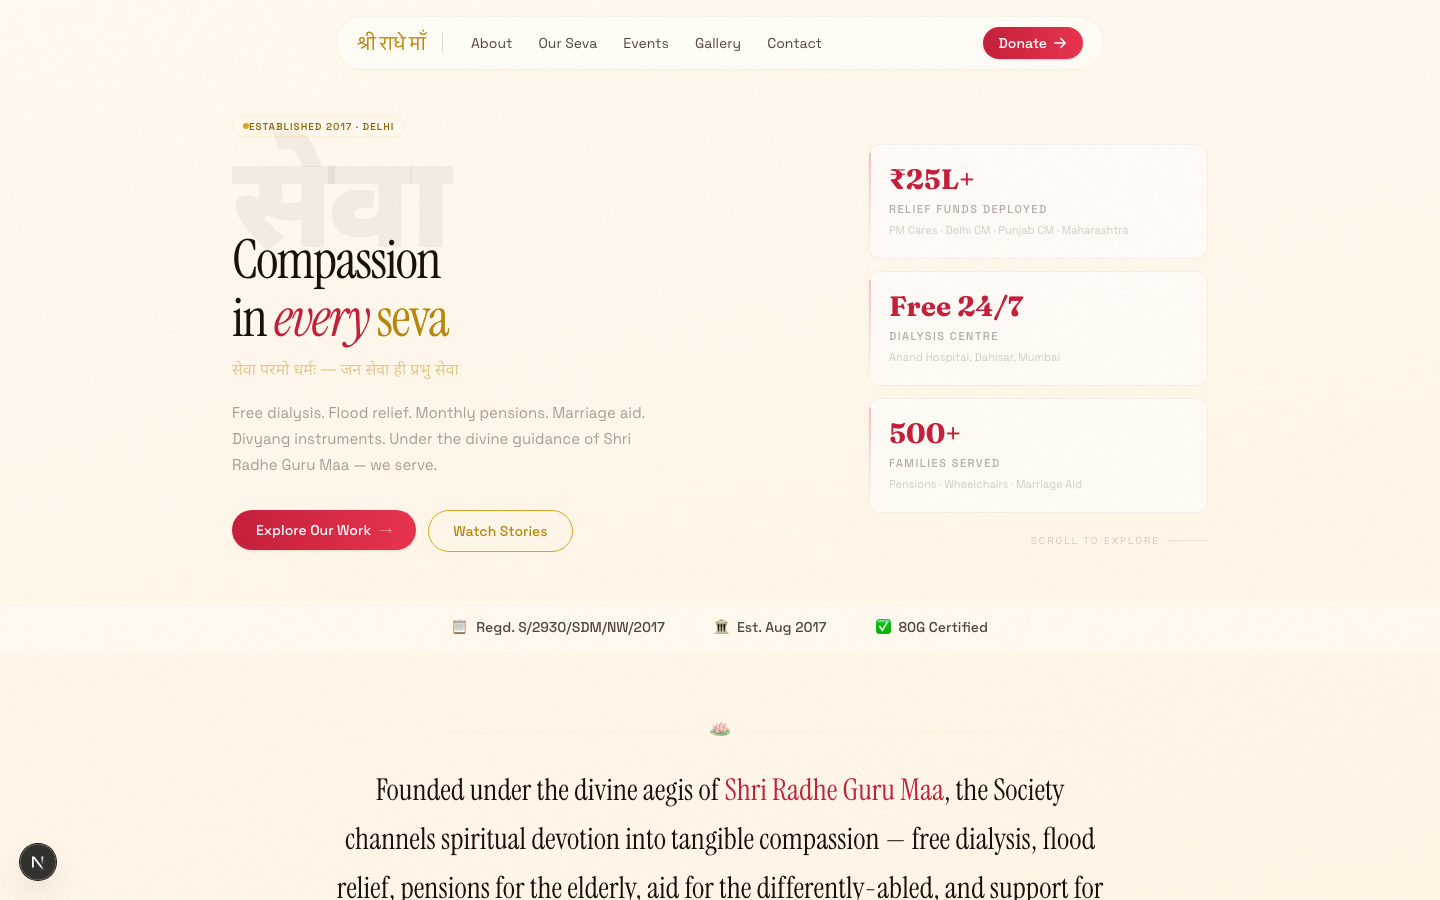
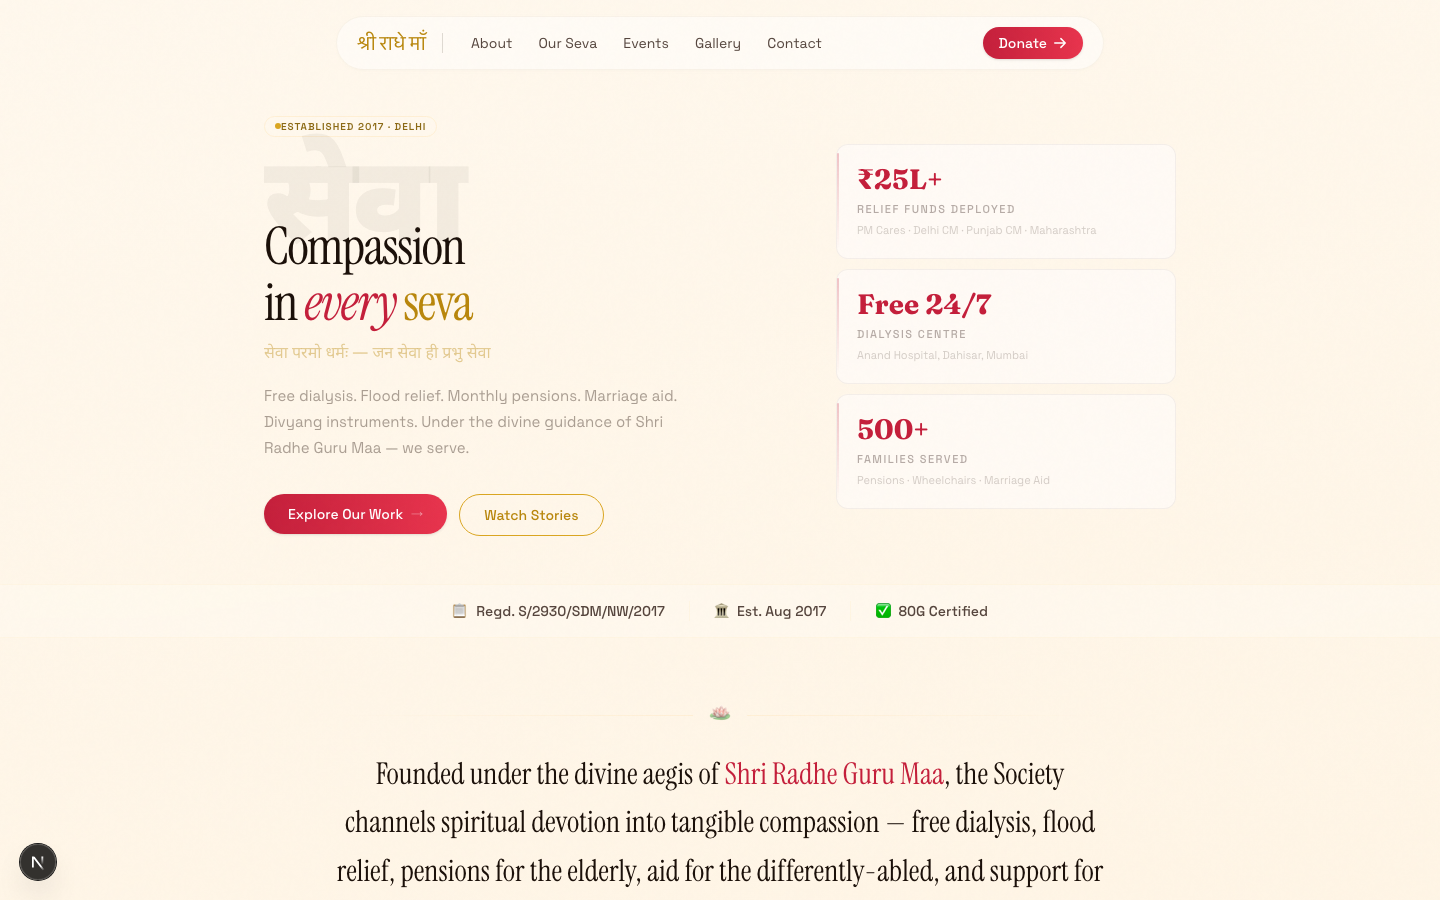
fix: Hero layout — use inline CSS Grid to bypass Tailwind v4 arbitrary value issues

diff --git a/src/components/home/Hero.tsx b/src/components/home/Hero.tsx
@@ -31,9 +31,9 @@ export function Hero() {
 
   return (
     <section className="relative pt-28 pb-12 overflow-hidden">
-      <div className="max-w-5xl mx-auto px-6">
-        {/* Use CSS Grid for reliable 2-column layout */}
-        <div className="grid grid-cols-1 lg:grid-cols-[1fr_340px] gap-12 items-start">
+      <div style={{ maxWidth: "960px", marginLeft: "auto", marginRight: "auto", paddingLeft: "24px", paddingRight: "24px" }}>
+        {/* 2-column layout with inline styles to guarantee it works */}
+        <div style={{ display: "grid", gridTemplateColumns: "1fr 340px", gap: "48px", alignItems: "start" }}>
           {/* Left column */}
           <div>
             <ScrollReveal delay={0}>
@@ -46,22 +46,25 @@ export function Hero() {
             {/* Watermark + Title */}
             <div className="relative mt-6">
               <div
-                className="font-devanagari font-black select-none pointer-events-none text-warm-900/[0.05]"
+                className="font-devanagari font-black select-none pointer-events-none"
                 style={{
-                  fontSize: "clamp(80px, 11vw, 130px)",
+                  fontSize: "120px",
                   lineHeight: 0.85,
                   letterSpacing: "-0.04em",
+                  color: "rgba(26, 15, 8, 0.05)",
                 }}
                 aria-hidden="true"
               >
                 सेवा
               </div>
               <h1
-                className="font-serif text-warm-900 -mt-10 relative z-10"
+                className="font-serif text-warm-900 relative"
                 style={{
-                  fontSize: "clamp(38px, 4.5vw, 54px)",
+                  fontSize: "52px",
                   lineHeight: 1.08,
                   letterSpacing: "-0.03em",
+                  marginTop: "-44px",
+                  zIndex: 1,
                 }}
               >
                 {t("title_1")}
@@ -73,23 +76,23 @@ export function Hero() {
             </div>
 
             <ScrollReveal delay={150}>
-              <p className="font-devanagari text-saffron-600/40 text-base mt-3">
+              <p className="font-devanagari text-saffron-600/40 text-base" style={{ marginTop: "12px" }}>
                 {t("sanskrit")}
               </p>
             </ScrollReveal>
 
             <ScrollReveal delay={250}>
-              <p className="text-[15px] text-warm-800/40 leading-[1.75] mt-4 max-w-md">
+              <p className="text-warm-800/40" style={{ fontSize: "15px", lineHeight: 1.75, marginTop: "16px", maxWidth: "420px" }}>
                 {t("description")}
               </p>
             </ScrollReveal>
 
             <ScrollReveal delay={350}>
-              <div className="flex flex-wrap gap-3 mt-8">
+              <div className="flex flex-wrap gap-3" style={{ marginTop: "32px" }}>
                 <Link href={"/seva" as any}>
                   <Button variant="primary">
                     {t("cta_primary")}{" "}
-                    <span className="text-xs opacity-50">→</span>
+                    <span style={{ fontSize: "11px", opacity: 0.5 }}>→</span>
                   </Button>
                 </Link>
                 <Button variant="gold">{t("cta_secondary")}</Button>
@@ -97,40 +100,23 @@ export function Hero() {
             </ScrollReveal>
           </div>
 
-          {/* Right column — stat cards (fixed width via grid) */}
-          <div className="flex flex-col gap-3 lg:pt-8">
+          {/* Right column — stat cards */}
+          <div style={{ display: "flex", flexDirection: "column", gap: "10px", paddingTop: "32px" }}>
             {stats.map((stat, i) => (
               <ScrollReveal key={stat.label} delay={200 + i * 120}>
                 <Card accent="crimson">
-                  <div className="font-stat text-[28px] font-bold leading-none text-crimson-500">
+                  <div className="font-stat font-bold leading-none text-crimson-500" style={{ fontSize: "28px" }}>
                     {stat.num}
                   </div>
-                  <p className="text-[11px] text-warm-800/35 tracking-[1.5px] uppercase mt-2 font-medium">
+                  <p className="text-warm-800/35 font-medium" style={{ fontSize: "11px", letterSpacing: "1.5px", textTransform: "uppercase", marginTop: "8px" }}>
                     {stat.label}
                   </p>
-                  <p className="text-[11px] text-warm-800/20 mt-1">
+                  <p className="text-warm-800/20" style={{ fontSize: "11px", marginTop: "4px" }}>
                     {stat.detail}
                   </p>
                 </Card>
               </ScrollReveal>
             ))}
-
-            {/* Scroll hint */}
-            <div className="flex items-center gap-2 mt-2 justify-end">
-              <span className="text-[10px] text-warm-800/20 tracking-[2px] uppercase">
-                Scroll to explore
-              </span>
-              <div
-                className="w-10 h-px"
-                style={{
-                  background:
-                    "linear-gradient(to right, rgba(196,30,58,0.15), rgba(218,165,32,0.15))",
-                  transformOrigin: "left",
-                  animation:
-                    "lineGrow 2s cubic-bezier(0.16, 1, 0.3, 1) infinite",
-                }}
-              />
-            </div>
           </div>
         </div>
       </div>
